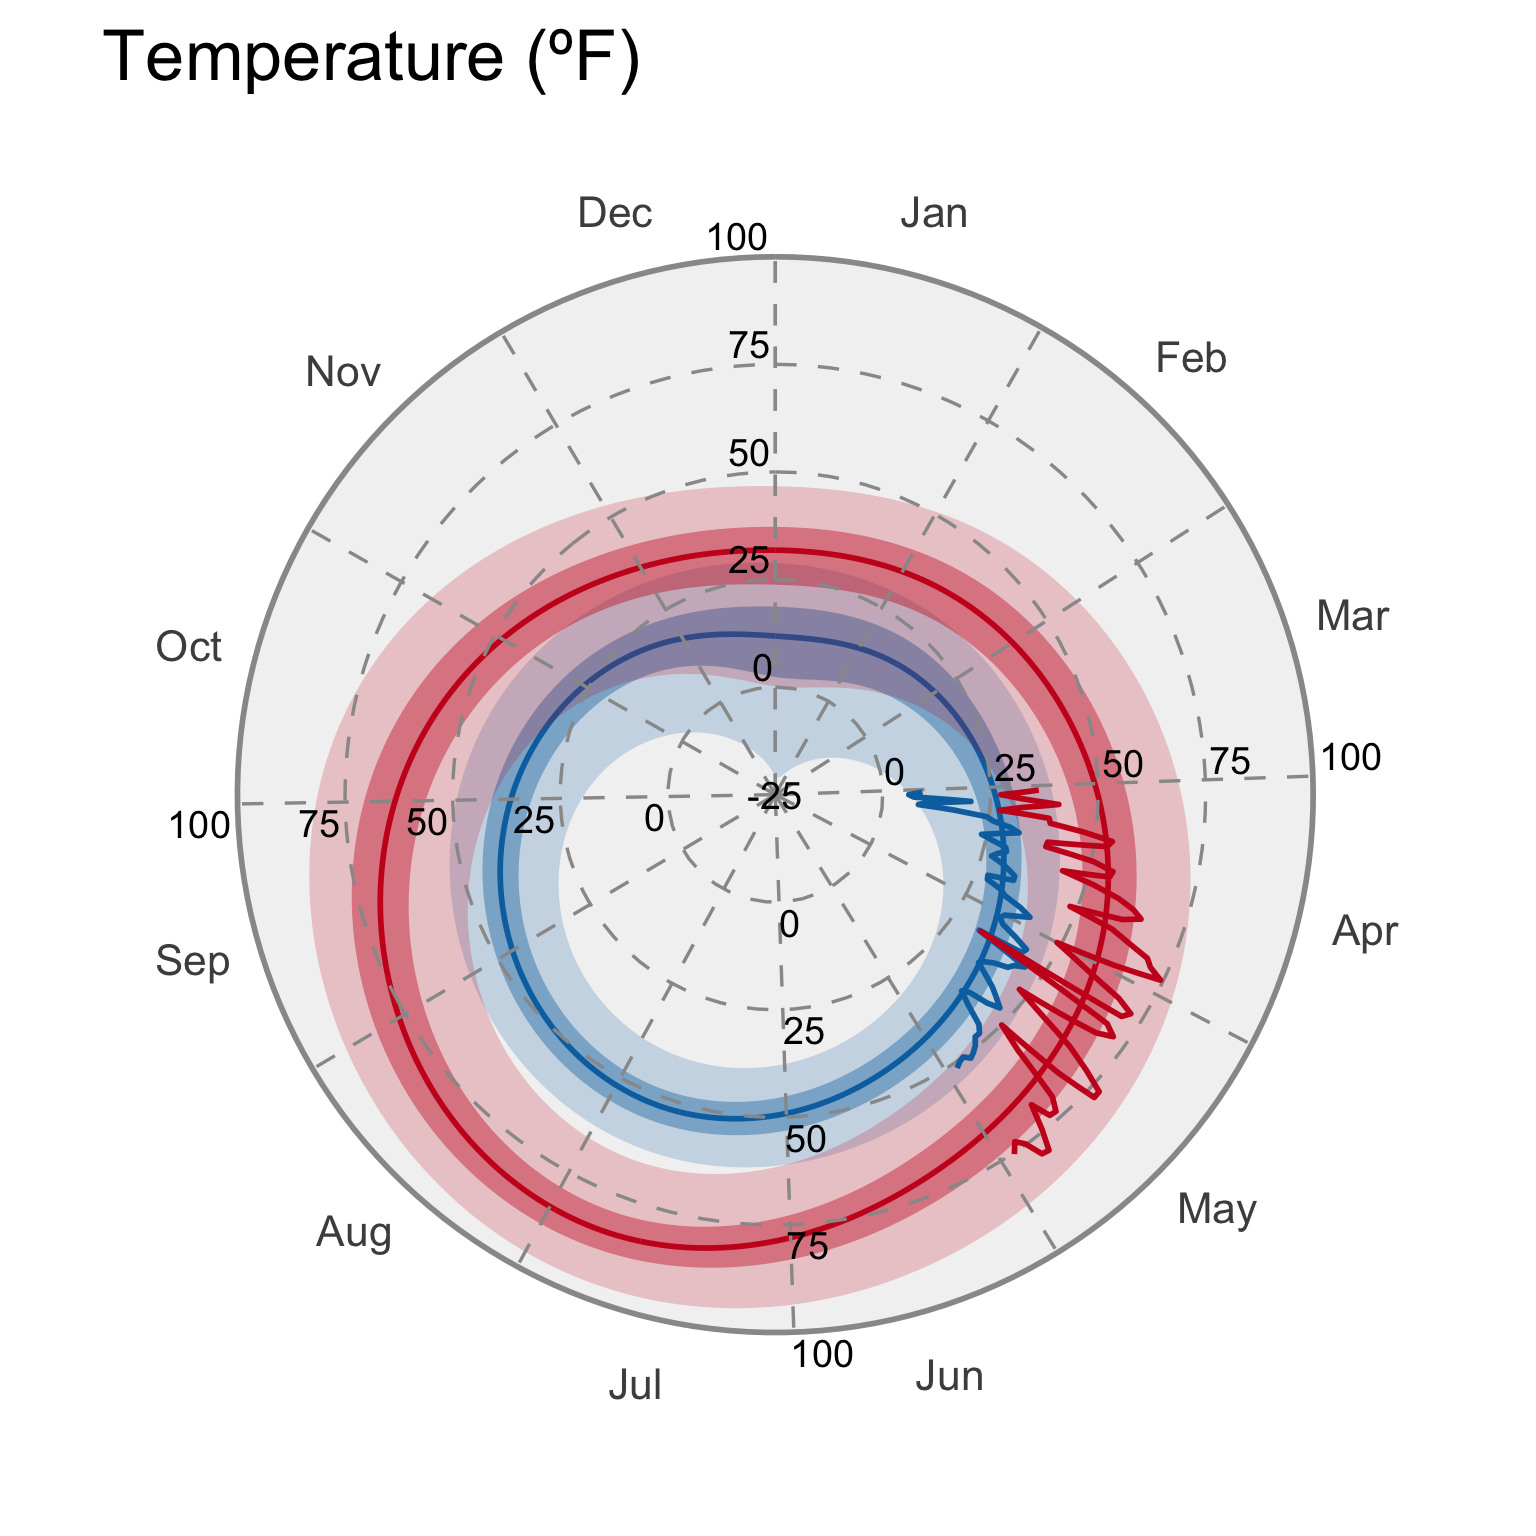
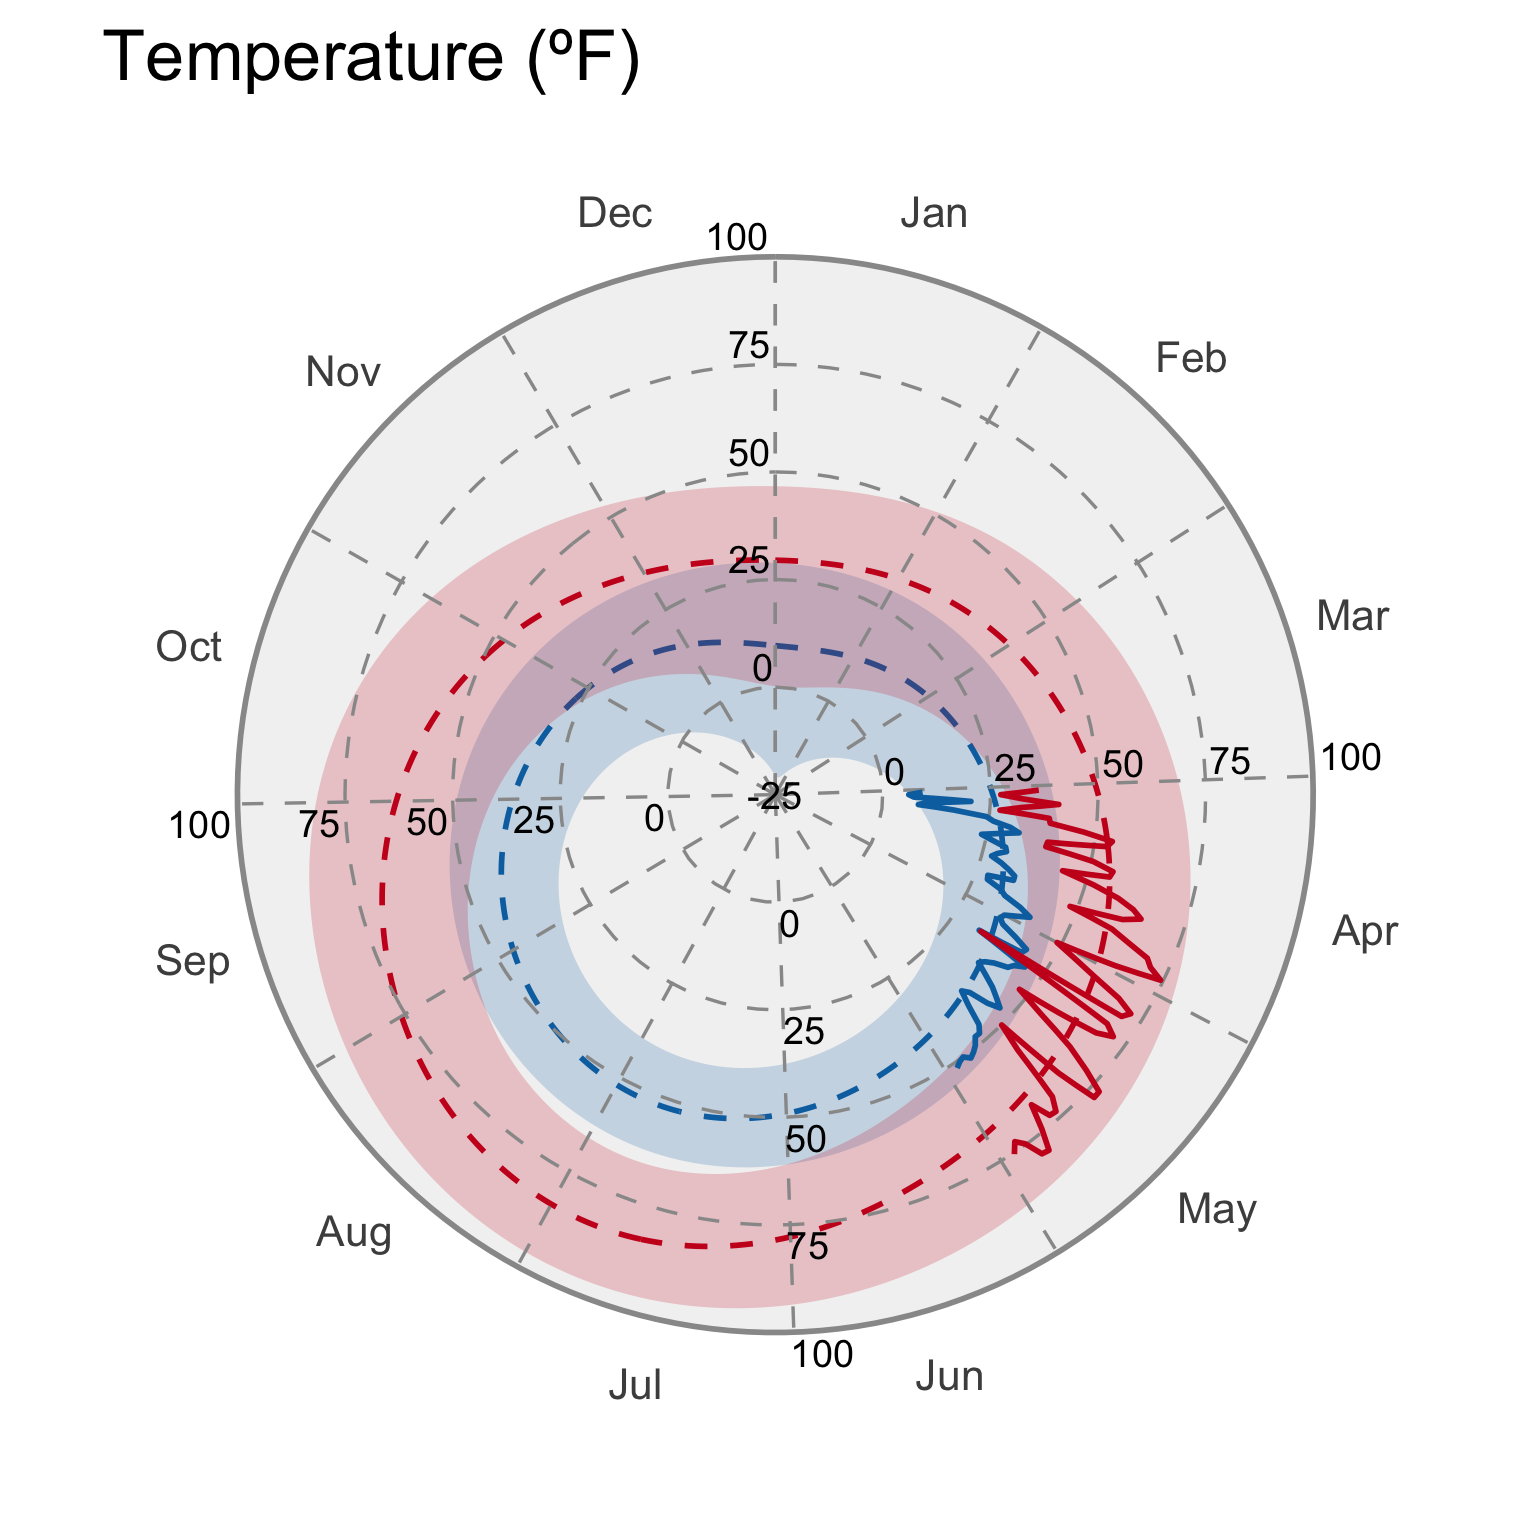
added disclaimer

Changed region(s): [[0.2188, 0.3438, 0.75, 0.8438]]

diff --git a/docs/mtdrought-2018-summer/index.html b/docs/mtdrought-2018-summer/index.html
@@ -210,7 +210,10 @@ $(document).ready(function () {
 </div>
 
 
-<!-- ![Cool spring conditions should help maintain mountain heavy snowpack across Montana---welcome news for irrigated operations.](./img/Laurie_Yung_drip_line.jpg) -->
+<div class="figure">
+<img src="img/Missoula_Floods.jpg" alt="Flooding from spring runoff affected much of Montana in April and May, including in Missoula. Photo: https://inciweb.nwcg.gov/incident/photograph/5787/17/77904" />
+<p class="caption">Flooding from spring runoff affected much of Montana in April and May, including in Missoula. Photo: <a href="https://inciweb.nwcg.gov/incident/photograph/5787/17/77904" class="uri">https://inciweb.nwcg.gov/incident/photograph/5787/17/77904</a></p>
+</div>
 <div id="section" class="section level2 unnumbered">
 <h2></h2>
 <p>Welcome to the June 2018 Montana Drought &amp; Climate newsletter. We hope that Montana farmers and ranchers find the information here useful. Please <a href="mailto:mtdrought@umontana.edu">send us your feedback</a>!</p>
@@ -244,7 +247,7 @@ $(document).ready(function () {
 <div id="about-montana-drought-climate-and-the-montana-climate-office" class="section level3 unnumbered">
 <h3>About <strong>Montana Drought &amp; Climate</strong><br>and the <strong>Montana Climate Office</strong></h3>
 <p><a href="https://climate.umt.edu/mtdrought/">Montana Drought and Climate</a> is a USDA-funded project of the <a href="https://climate.umt.edu/">Montana Climate Office (MCO)</a> at the W.A. Franke College of Forestry &amp; Conservation at the University of Montana, in collaboration with the Montana State University Extension Service. The MCO is an independent state-designated body that provides Montanans with high-quality, timely, relevant, and scientifically-based climate information and services. We strive to be a credible and expert source of information for decision makers that rely on the most current information on climate to make important decisions. It is also the role of the MCO to assist stakeholders in interpreting climate information or adapting climate products to their needs.</p>
-<p>Production of this newsletter is supported by Water for Agriculture Challenge Area grant no. 2017-67027-26313 from the <a href="https://nifa.usda.gov/">USDA National Institute of Food and Agriculture</a> and by the <a href="http://www.montanawatercenter.org/">Montana Water Center</a>. Any opinions, findings, conclusions, or recommendations expressed in this publication are those of the author(s) and do not necessarily reflect the view of the U.S. Department of Agriculture, the Montana Water Center, or the University of Montana.</p>
+<p>Production of this newsletter is supported by Water for Agriculture Challenge Area grant no. 2017-67027-26313 from the <a href="https://nifa.usda.gov/">USDA National Institute of Food and Agriculture</a> and by the <a href="http://www.montanawatercenter.org/">Montana Water Center</a>. Any opinions, findings, conclusions, or recommendations expressed in this publication are those of the author(s) and do not necessarily reflect the view of the U.S. Department of Agriculture, the Montana Water Center, or the University of Montana. Please refer to the Montana Climate Office user agreement and disclaimer at <a href="climate.umt.edu/disclaimer" class="uri">climate.umt.edu/disclaimer</a>.</p>
 <br>
 <div style="text-align: left;">
 <p><img src="img/NIFA_logo.jpg" style="width:400px;" /></p>

diff --git a/docs/mtdrought-2018-summer/am-2018-review.html b/docs/mtdrought-2018-summer/am-2018-review.html
@@ -210,7 +210,10 @@ $(document).ready(function () {
 </div>
 
 
-<!-- ![A cold and snowy winter was a challenge for some ranchers, especially in north-central Montana where February brought well over 200 percent of normal snowfall.](./img/Laurie_Yung_cows.jpg) -->
+<div class="figure">
+<img src="img/Collin_Kuske_snowpack_April_23.jpg" alt="Fish Creek, April 23, 2018. Photo: Collin Kuske" />
+<p class="caption">Fish Creek, April 23, 2018. Photo: Collin Kuske</p>
+</div>
 <div id="section" class="section level2 unnumbered tabset tabset-fade tabset-pills">
 <h2></h2>
 <div id="temperature" class="section level3 unnumbered">
@@ -228,22 +231,7 @@ $(document).ready(function () {
 <p><img src="am-2018-review_files/figure-html/past-seasonal-temp-grid-normals-1.png" width="100%" style="display: block; margin: auto;" /></p>
 <p>The graph below compares historic daily temperatures (bands and dashed lines) to current daily temperatures in April and May 2018 (jagged lines) across Montana. Red colors are the high temperatures, and blue colors are the low temperatures. The bands represent the range of recorded temperatures during the 1981–2010 period on any given day. The dashed lines represent the average high and low temperatures during the 1981–2010 period.</p>
 <p><img src="am-2018-review_files/figure-html/past-seasonal-temp-grid-climatology-1.png" width="100%" style="display: block; margin: auto;" /></p>
-<!-- ```{r past-seasonal-temp-grid-climatology-polar, cache=FALSE, fig.width = 4, fig.height = 4} -->
-<!-- mtd_plot_climatology(x = climatology[c("daily_minimum_temperature","daily_maximum_temperature")], -->
-<!--                      col = c("#0571b0","#ca0020"), -->
-<!--                      ybreaks = seq(-25,100,25), -->
-<!--                      title = "Temperature (ºF)", -->
-<!--                      polar = TRUE, -->
-<!--                      smooth = TRUE) + -->
-<!--   ggplot2::geom_line(ggplot2::aes(x = YDAY, -->
-<!--                                   y = daily_minimum_temperature), -->
-<!--                      col = "#0571b0", -->
-<!--                      data = gridmet_sum) + -->
-<!--   ggplot2::geom_line(ggplot2::aes(x = YDAY, -->
-<!--                                   y = daily_maximum_temperature), -->
-<!--                      col = "#ca0020", -->
-<!--                      data = gridmet_sum) -->
-<!-- ``` -->
+<p><img src="am-2018-review_files/figure-html/past-seasonal-temp-grid-climatology-polar-1.png" width="100%" style="display: block; margin: auto;" /></p>
 </div>
 <div id="growing-degree-days-gdds" class="section level3 unnumbered">
 <h3><img src="icons/temperature.svg" width="35px"/> Growing Degree Days (GDDs)</h3>

diff --git a/docs/mtdrought-2018-summer/am-2018-midcentury.html b/docs/mtdrought-2018-summer/am-2018-midcentury.html
@@ -210,7 +210,10 @@ $(document).ready(function () {
 </div>
 
 
-<!-- ![By mid-century, less precipitation will fall as snow during the winter, lessening April snowpack. Photo by Kevin Hyde.](./img/Kevin_Hyde_dry.jpg) -->
+<div class="figure">
+<img src="img/Kevin_Hyde_Yellowstone.jpg" alt="Photo: Kevin Hyde" />
+<p class="caption">Photo: Kevin Hyde</p>
+</div>
 <div id="section" class="section level2 unnumbered tabset tabset-fade tabset-pills">
 <h2></h2>
 <p>Understanding how climate change will impact agriculture in the future can be difficult. It is often helpful to compare future climate projections to the conditions that we are currently experiencing. By mid-century (2040–2069), spring will look a lot different than what we are currently experiencing in terms of increasing temperatures and reduced snowpack. Precipitation is expected to be similar in amount to 1981–2010 normal conditions, with a larger portion of total precipitation falling in the form of rain as opposed to snow.</p>

diff --git a/docs/mtdrought-2018-summer/jja-2018-forecast.html b/docs/mtdrought-2018-summer/jja-2018-forecast.html
@@ -210,7 +210,10 @@ $(document).ready(function () {
 </div>
 
 
-<!-- ![Spring runoff from heavy mountain snows could potentially cause flooding in some areas, especially if there is rapid snow melt. Photo by Collin Kuske.](./img/Collin_Kuske_flooded_field.jpg) -->
+<div class="figure">
+<img src="img/Kevin_Hyde_green.jpg" alt="Photo: Kevin Hyde" />
+<p class="caption">Photo: Kevin Hyde</p>
+</div>
 <div id="section" class="section level2 unnumbered tabset tabset-fade tabset-pills">
 <h2></h2>
 <!-- ### <img src="icons/enso.svg" width="35px"/> El Niño/La Niña {-} -->
